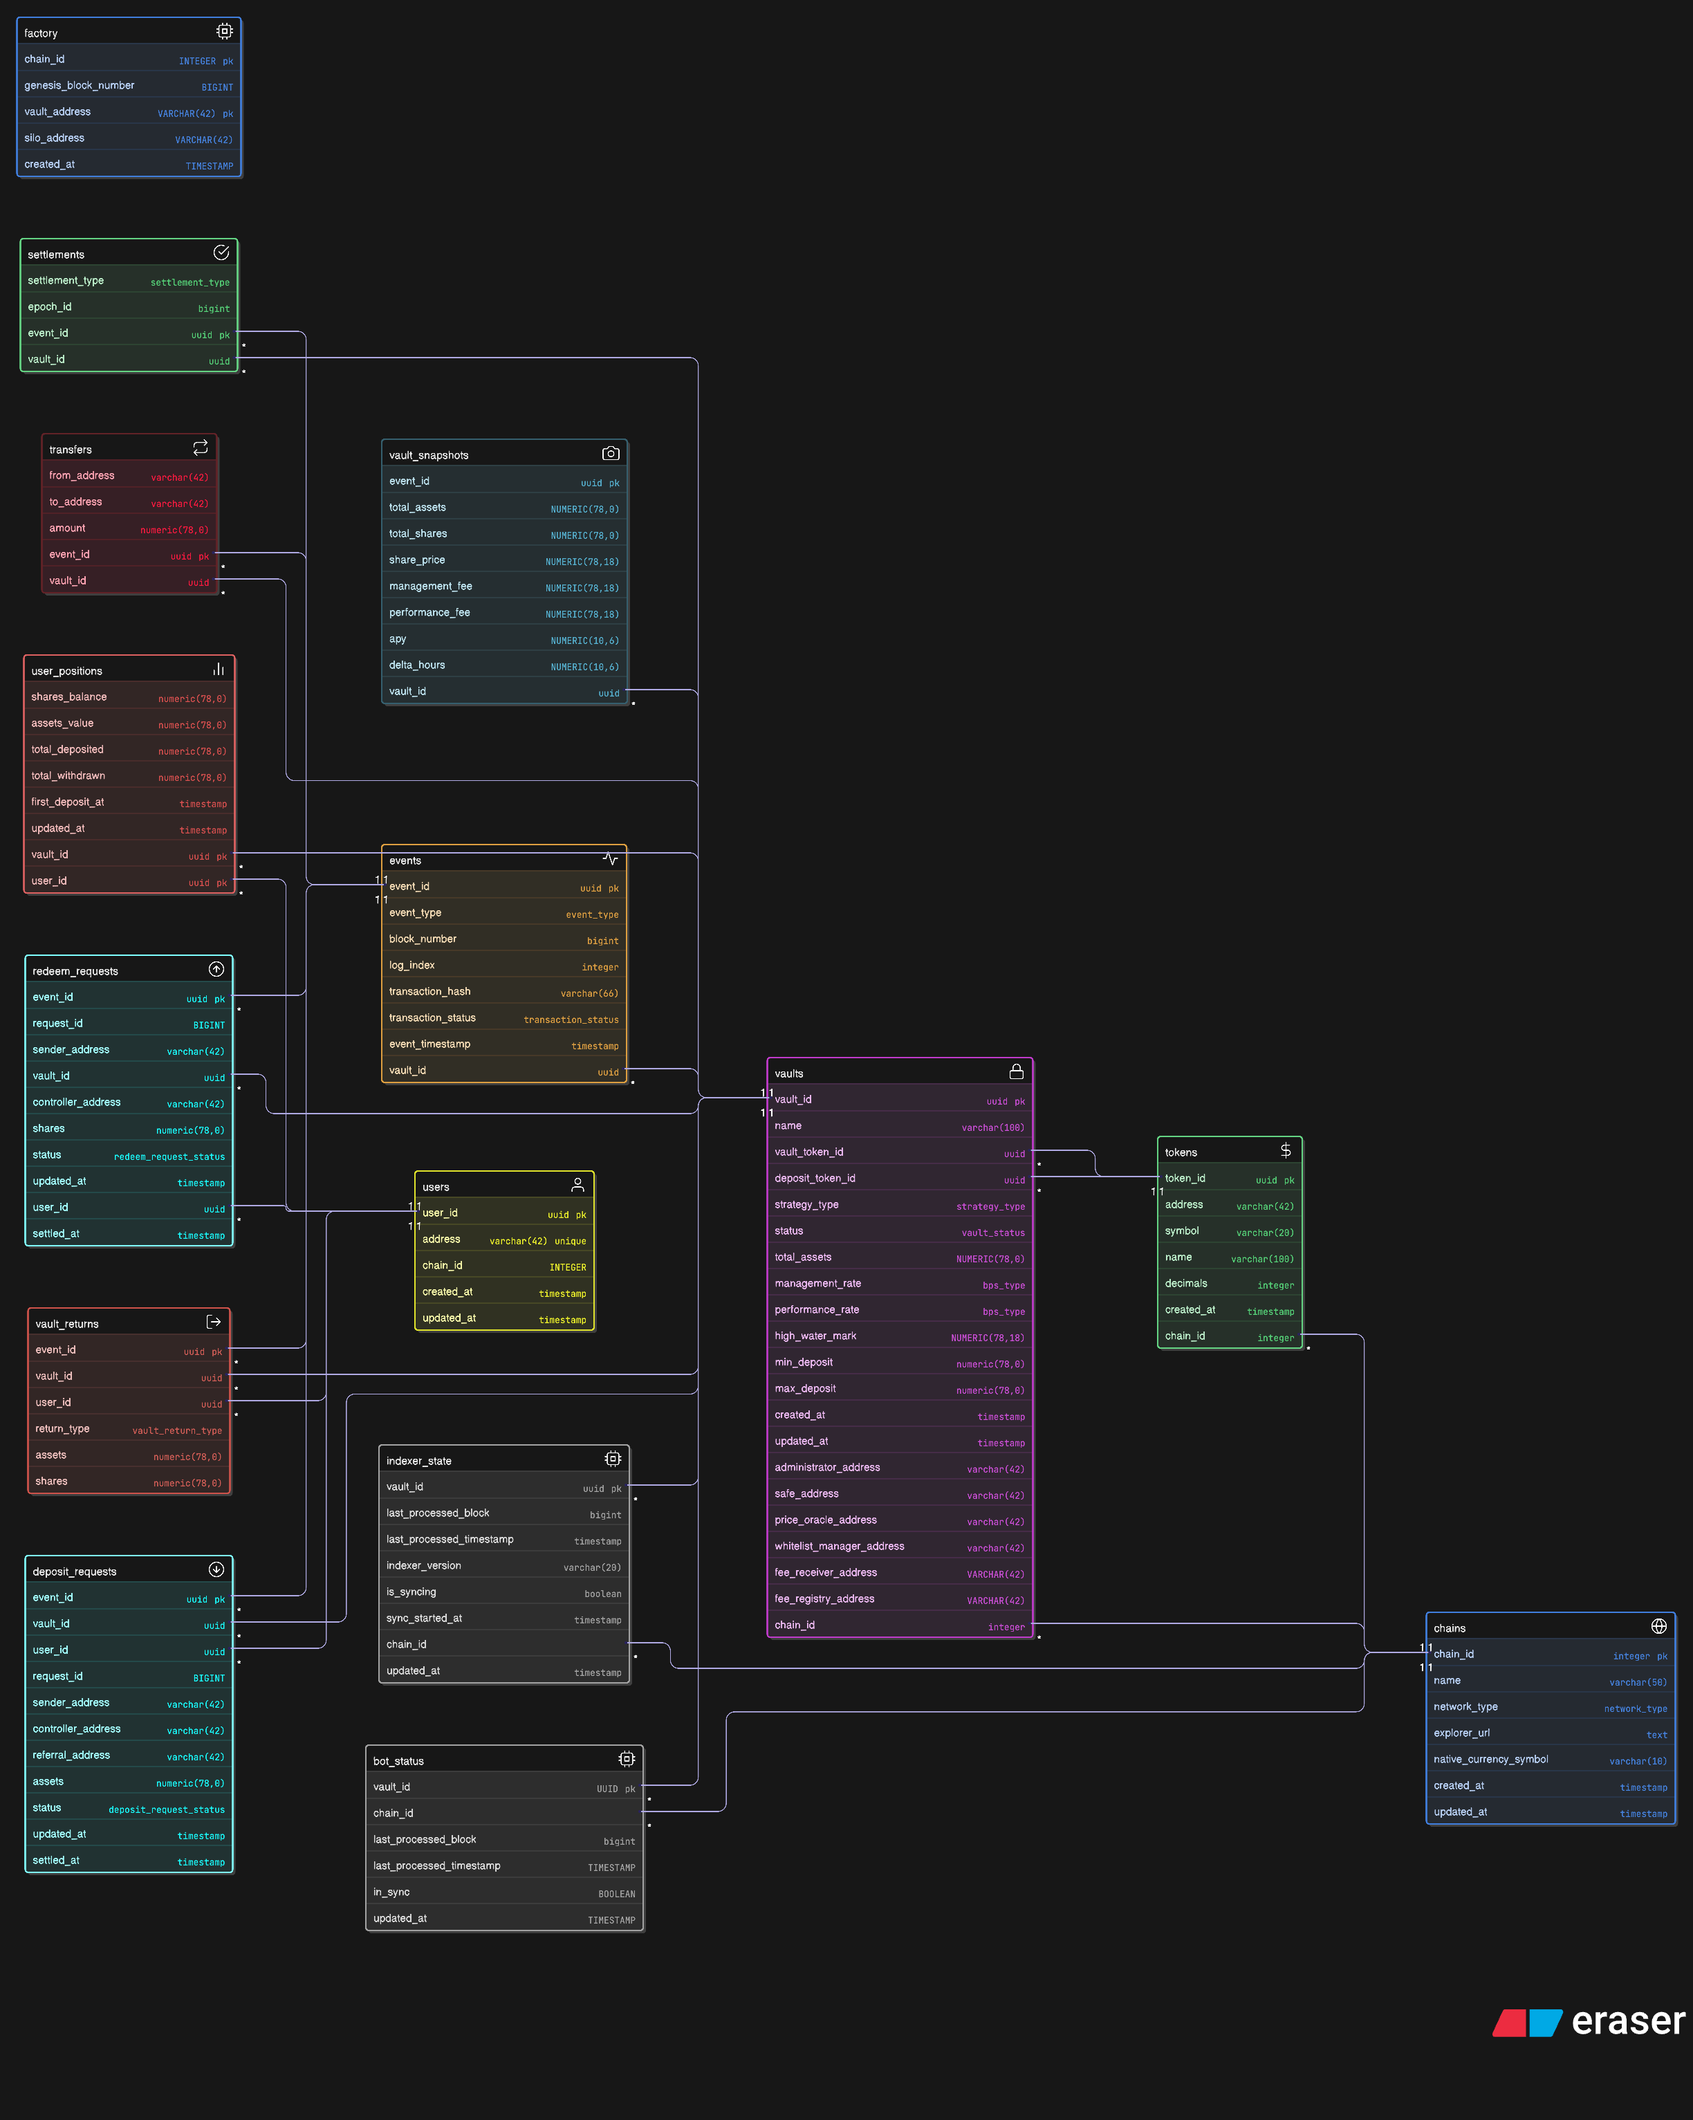
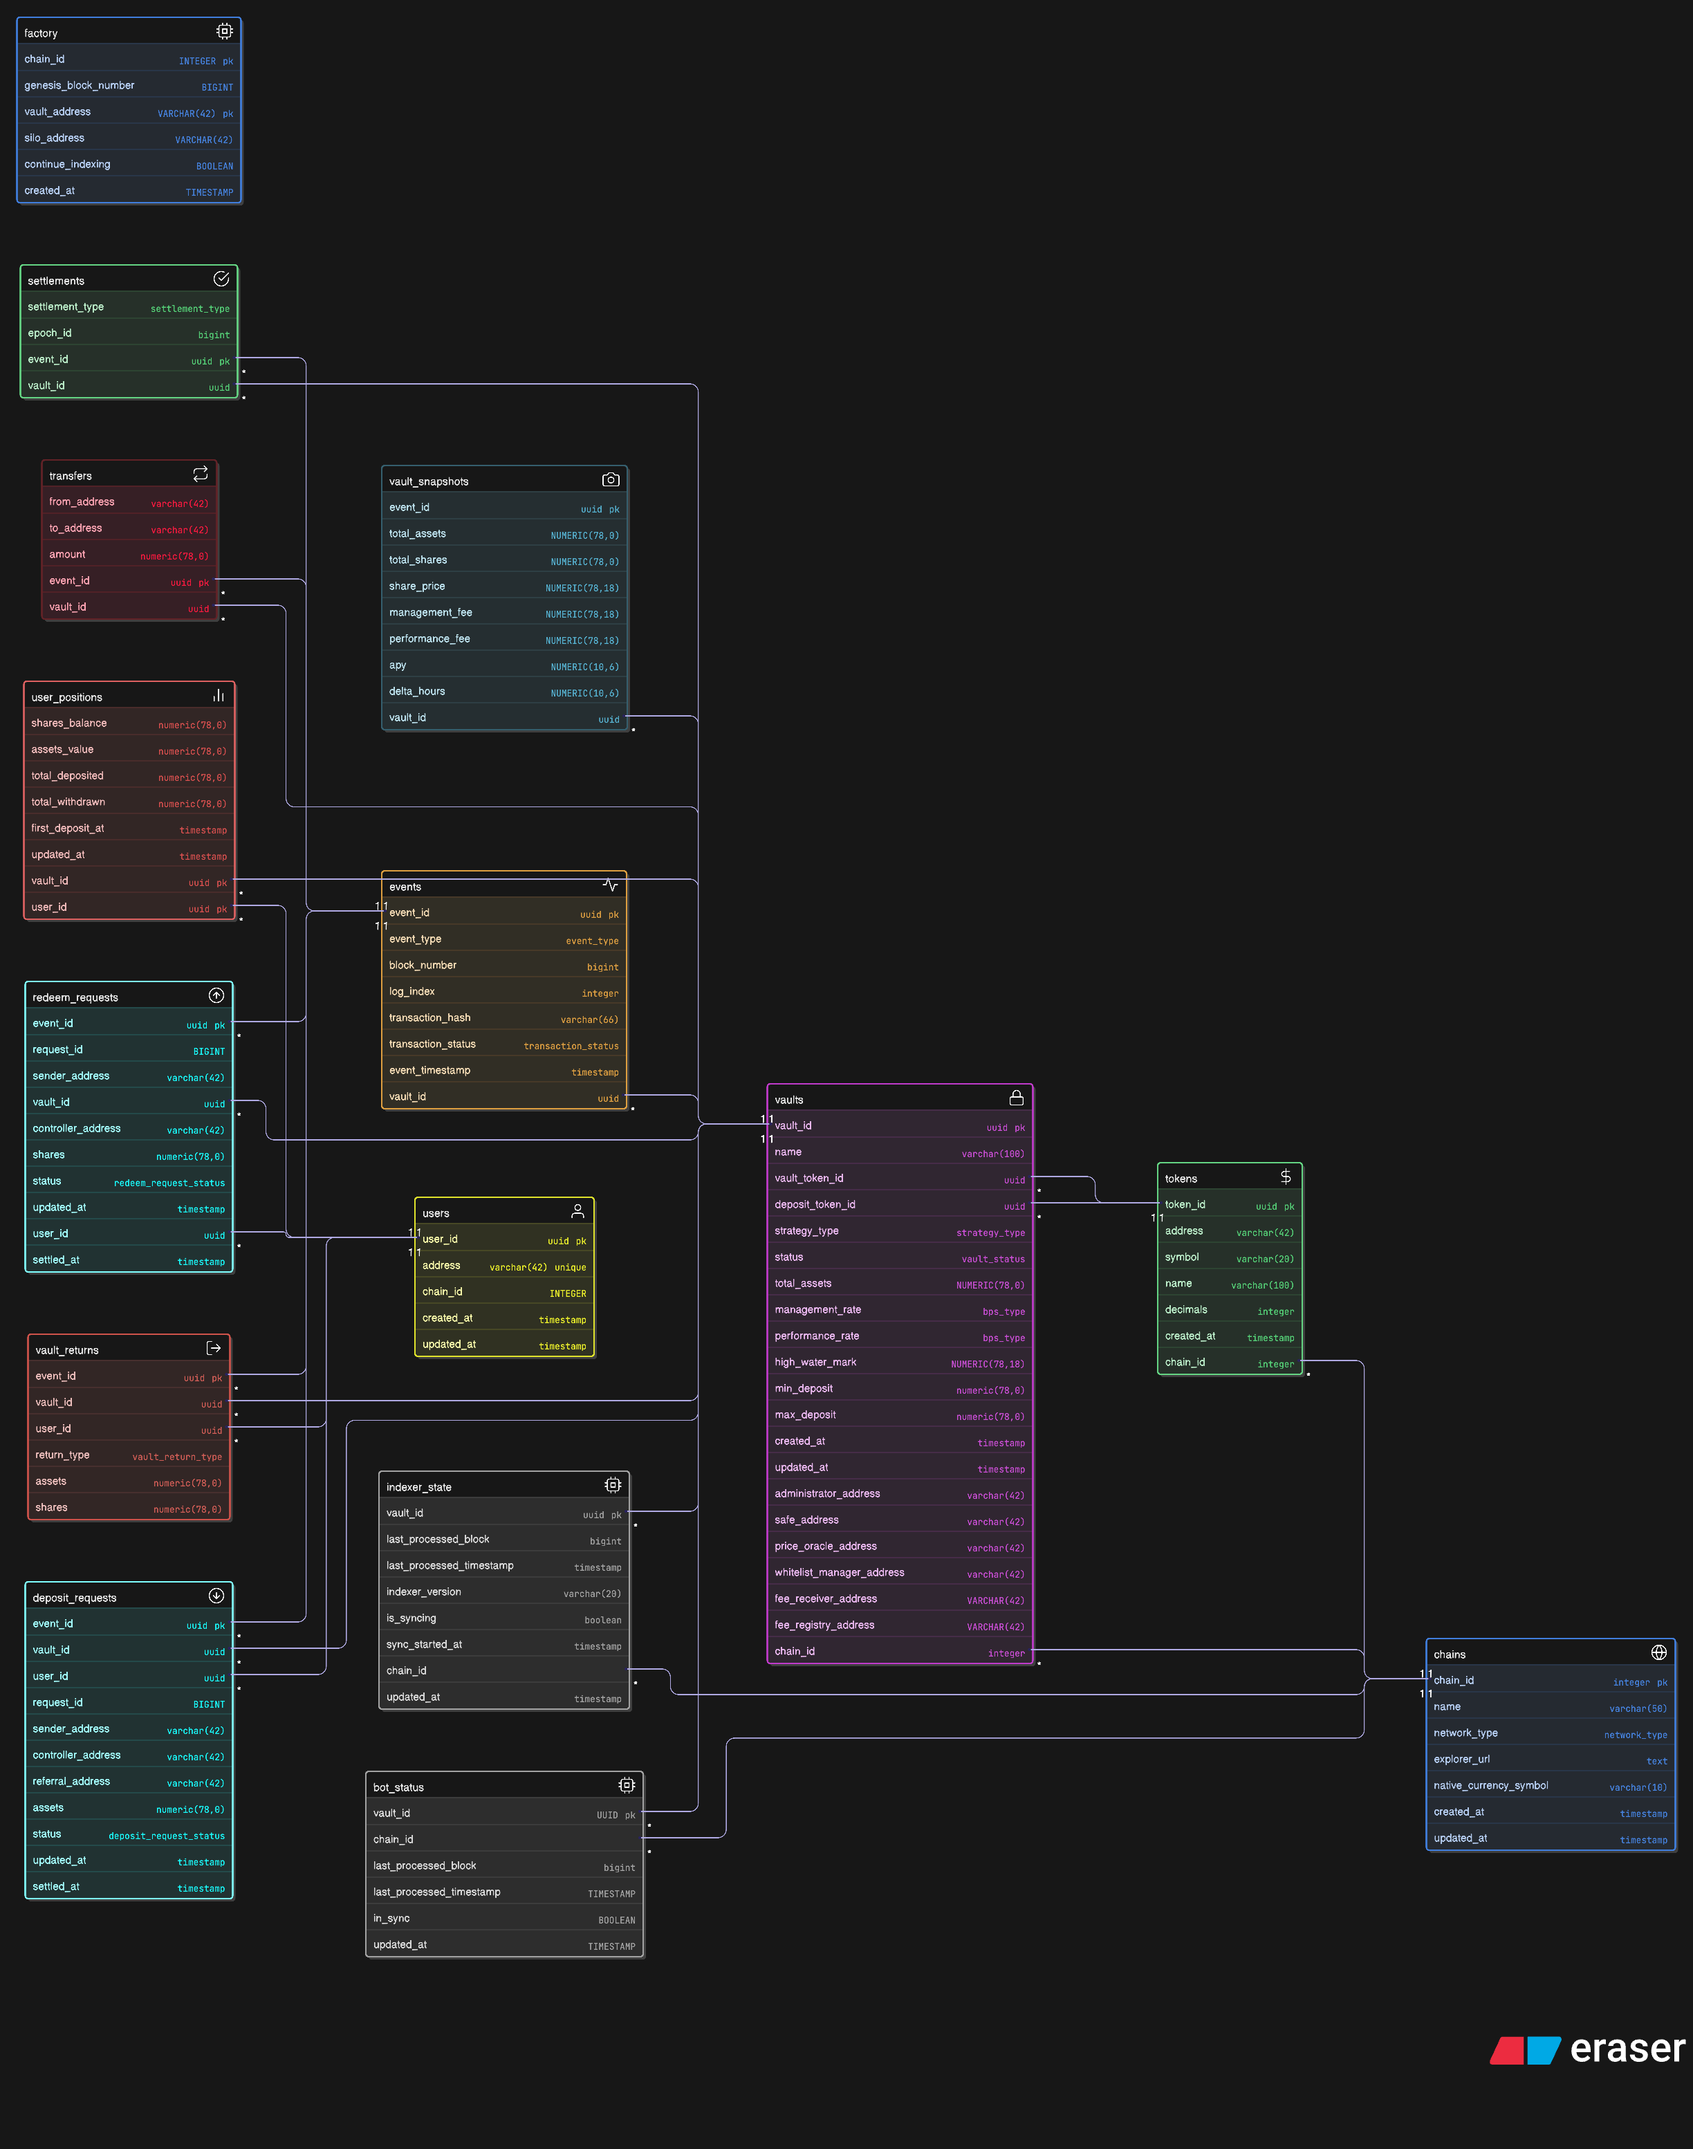
feat: add continue_indexing flag to factory table to control indexer and bot activity
- Added continue_indexing boolean column to the factory table
- Modified indexer logic to automatically set continue_indexing to false on close vault event
- Updated bot endpoint to respect continue_indexing and stop operations accordingly
- Enables automatic shutdown of indexers and bots when a vault is closed

diff --git a/lagoon-indexer/lagoon_indexer.py b/lagoon-indexer/lagoon_indexer.py
@@ -430,6 +430,16 @@ class EventProcessor:
                 LagoonDbDateUtils.get_datetime_from_str(event_data['event_timestamp'])
             )
 
+            if state_updated_data['state'] == 'closed':
+                # UPDATE the corresponding vault on factory table's continue_indexing to False
+                # This will stop the indexer from keeping indexing this vault (stopping the corresponding bot as well)
+                LagoonEvents.update_vault_continue_indexing(
+                    self.db,
+                    self.lagoon,
+                    self.chain_id,
+                    False
+                )
+
         self.save_to_db_batch('events', event_data_list)
 
     def store_Paused_events(self, events: List[Dict]):

diff --git a/lagoon-indexer/db/insert_factory_data.py b/lagoon-indexer/db/insert_factory_data.py
@@ -117,12 +117,13 @@ def insert_factory_data(creation_tx_hash: str, chain_id: int):
             genesis_block_number,
             vault_address,
             silo_address,
+            continue_indexing,
             created_at
         ) 
-        VALUES (%s, %s, %s, %s, %s)
+        VALUES (%s, %s, %s, %s, %s, %s)
         ON CONFLICT (vault_address, chain_id) DO NOTHING;
         """
-        cursor.execute(query, (chain_id, genesis_block_number, vault_address, silo_address, now_ts))
+        cursor.execute(query, (chain_id, genesis_block_number, vault_address, silo_address, True, now_ts))
     db.connection.commit()
     print("Factory data inserted successfully.")
     db.closeConnection()

diff --git a/lagoon-indexer/db/query/lagoon_db_utils.py b/lagoon-indexer/db/query/lagoon_db_utils.py
@@ -213,12 +213,12 @@ class LagoonDbUtils:
             return None
     
     @staticmethod
-    def get_deployments_from_chain_id(db: Database, chain_id: int) -> Tuple[str, str, int]:
+    def get_active_deployments_from_chain_id(db: Database, chain_id: int) -> Tuple[str, str, int]:
         """
         Get the deployments for a given chain_id.
         """
         query = """
-        SELECT vault_address, silo_address, genesis_block_number FROM factory WHERE chain_id = %s
+        SELECT vault_address, silo_address, genesis_block_number FROM factory WHERE chain_id = %s AND continue_indexing = TRUE
         """
         result = db.queryResponse(query, (chain_id,))
         return result

diff --git a/lagoon-indexer/db/query/lagoon_events.py b/lagoon-indexer/db/query/lagoon_events.py
@@ -76,6 +76,18 @@ class LagoonEvents:
         conn.commit()
 
     @staticmethod
+    def update_vault_continue_indexing(db: Database, vault_address: str, chain_id: int, continue_indexing: bool):
+        query = """
+        UPDATE factory
+        SET continue_indexing = %s
+        WHERE vault_address = %s AND chain_id = %s;
+        """
+        conn = db.connection
+        with conn.cursor() as cur:
+            cur.execute(query, (continue_indexing, vault_address, chain_id))
+        conn.commit()
+
+    @staticmethod
     def update_settled_redeem_requests(db: Database, vault_id: str, settled_timestamp: str):
         query = """
         UPDATE redeem_requests

diff --git a/lagoon-indexer/db/query/endpoints/lagoon_keeper_txs.py b/lagoon-indexer/db/query/endpoints/lagoon_keeper_txs.py
@@ -19,7 +19,9 @@ def get_keepers_pending_txs_metadata(chain_id: int = 480) -> Dict[str, Any]:
         FROM vaults v
         JOIN tokens dt ON dt.token_id = v.deposit_token_id
         JOIN tokens vt ON vt.token_id = v.vault_token_id
+        JOIN factory f ON f.vault_address = vt.address AND f.chain_id = v.chain_id
         WHERE v.chain_id = %s
+        AND f.continue_indexing = TRUE
     """
     
     # Check if the mandatory initial updateNewTotalAssets was done

diff --git a/lagoon-indexer/indexer.py b/lagoon-indexer/indexer.py
@@ -88,7 +88,7 @@ async def launch_forever(
     while True:
         try:
             db = getEnvDb(os.getenv('DB_NAME'))
-            deployments = LagoonDbUtils.get_deployments_from_chain_id(db, chain_id)
+            deployments = LagoonDbUtils.get_active_deployments_from_chain_id(db, chain_id)
 
             for deployment in deployments:
                 vault = deployment["vault_address"]            
